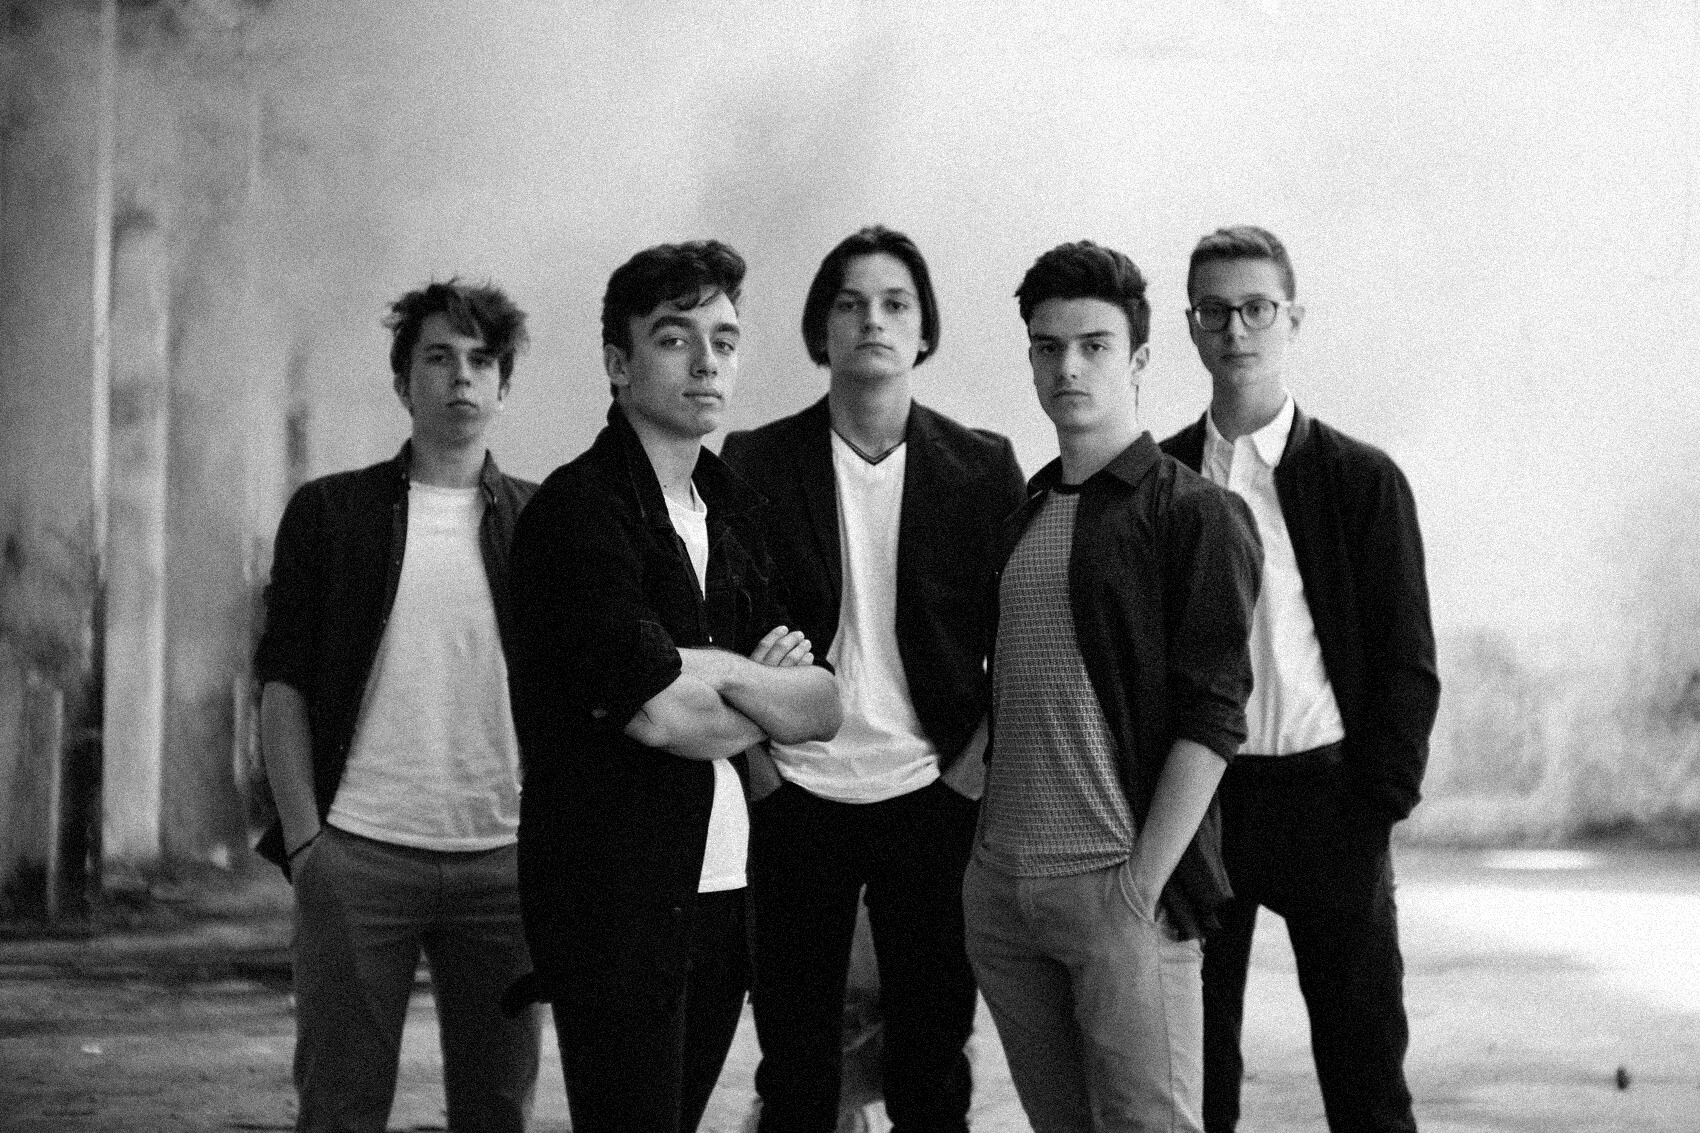
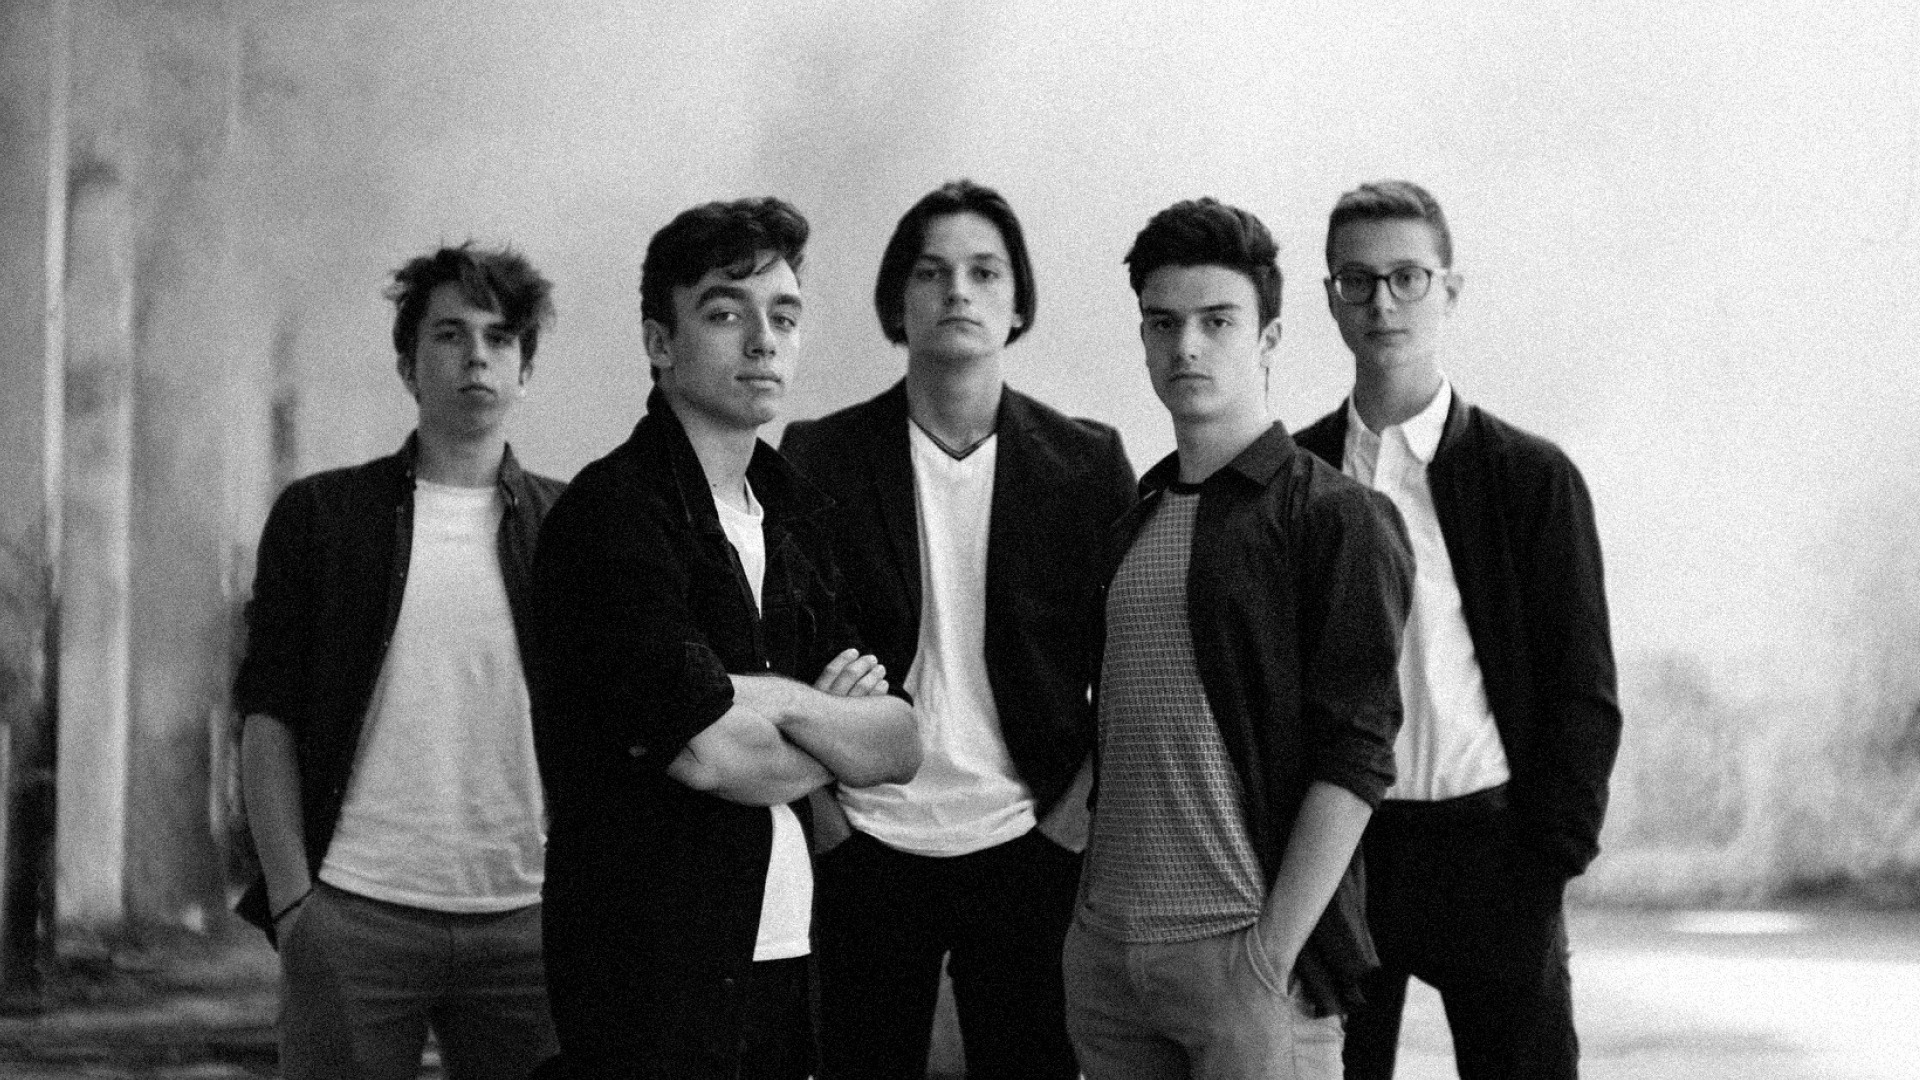
mobile vh + hamburger/form redesign + left align p

diff --git a/styles.css b/styles.css
@@ -25,7 +25,7 @@ body {
 }
 
 #home-page {
-    background-image: url(Assets/cover.png);
+    background-image: url(Assets/cover.jpg);
     background-position: center center;
 }
 
@@ -39,6 +39,7 @@ body {
     margin: auto;
     width: 85%;
     height: 15vh;
+    height: calc(var(--vh, 1vh) * 15);
     justify-content: space-between;
     align-items: center;
 }
@@ -54,7 +55,7 @@ body {
 .nav-element-text {
     color: white;
     font-weight: 500;
-    font-size: 1.5rem;
+    font-size: 1.4rem;
     letter-spacing: 0.06em;
 }
 
@@ -75,18 +76,20 @@ body {
 #banner {
     animation: fadein 1s;
     font-family: 'Playfair Display', serif;
-    font-size: calc(1.3em + 3.2vw);
+    font-size: calc(1.2em + 3.2vw);
     letter-spacing: 0.1em;
     display: flex;
     align-items: center;
     justify-content: center;
     height: 70vh;
+    height: calc(var(--vh, 1vh) * 70);
 }
 
 #socials {
     padding: 0;
     margin: auto;
     height: 15vh;
+    height: calc(var(--vh, 1vh) * 15);
     display: flex;
     width: calc(17rem + 5vw);
     justify-content: space-between;
@@ -109,6 +112,7 @@ body {
     margin: auto;
     width: 85%;
     min-height: 70vh;
+    min-height: calc(var(--vh, 1vh) * 70);
     display: flex;
     justify-content: space-evenly;
     flex-wrap: wrap;
@@ -210,10 +214,10 @@ h2 {
         align-items: center;
     }
     .opis {
-        text-align: center;
+        text-align: left;
     }
     #left-container {
-        align-items: center;
+        align-items: flex-start;
         padding-bottom: 40px;
     }
     #left-container>* {
@@ -319,8 +323,8 @@ button {
     border: 3px solid white;
     background-color: rgba(0, 0, 0, 0);
     font-weight: 500;
-    font-size: 22px;
-    letter-spacing: 0.08em;
+    font-size: calc(1rem + .2vw);
+    letter-spacing: 0.13em;
     padding: 14px 30px;
     color: white;
     font-family: 'Barlow', sans-serif;
@@ -425,6 +429,7 @@ button:hover {
 
 #left-contact>* {
     padding: 1.5rem 0;
+    width: 90%;
 }
 
 input,
@@ -433,11 +438,10 @@ textarea {
     color: white;
     letter-spacing: 0.1em;
     padding-left: 25px;
-    font-size: 1.4em;
-    background: rgba(196, 196, 196, 0.05);
+    font-size: 1.2em;
+    background: rgba(255, 255, 255, 0);
     border: 1px solid #FFFFFF;
-    border-radius: 10px;
-    width: 80%;
+    width: 85%;
 }
 
 #email-input {
@@ -496,9 +500,6 @@ textarea {
 }
 
 @media (max-width: 1500px) {
-    .contact {
-        width: 100%;
-    }
     #kontakt {
         flex-direction: column;
         align-items: stretch;
@@ -508,10 +509,6 @@ textarea {
         margin-bottom: 2rem;
         justify-content: space-evenly;
         align-items: center;
-    }
-    .contact {
-        text-align: center;
-        align-self: center;
     }
     #right-contact {
         align-items: center;
@@ -529,9 +526,6 @@ textarea {
     input,
     textarea {
         margin-bottom: 2rem;
-    }
-    #contacts-container {
-        align-items: center;
     }
     #glasba {
         flex-direction: column;
@@ -557,6 +551,7 @@ textarea {
     }
     #phone-nav {
         height: 15vh;
+        height: calc(var(--vh, 1vh) * 15);
         display: flex;
         justify-content: center;
     }
@@ -565,12 +560,18 @@ textarea {
         cursor: pointer;
     }
     #svg-wrapper {
-        background-color: rgb(36, 36, 36);
         width: 100%;
-        height: 60%;
+        height: 100%;
         display: flex;
-        justify-content: center;
+        justify-content: flex-start;
         align-items: center;
+    }
+    #svg-wrapper svg {
+        padding: 7px 10px;
+        margin-left: 30px;
+    }
+    #svg-wrapper .homeIcon {
+        background-color: rgb(36, 36, 36);
     }
     #nav {
         height: auto;

diff --git a/opis.html b/opis.html
@@ -34,6 +34,7 @@
 </head>
 
 <body>
+    <script src="script.js" type="text/javascript"></script>
     <header id="header">
         <nav id="phone-nav">
             <a id="svg-wrapper" onclick=hamburgerMenu()>
@@ -85,35 +86,35 @@
             <div id="right-container">
                 <ul id="members">
                     <li class="member">
-                        <img class="avatar" src="Assets/Avatars/Nejc.png">
+                        <img class="avatar" src="Assets/Avatars/Nejc.jpeg">
                         <div class="member-text">
                             <h3>Nejc Rac</h3>
                             <p class="instruments">Vokal / kitara</p>
                         </div>
                     </li>
                     <li class="member">
-                        <img class="avatar" src="Assets/Avatars/Vane.png">
+                        <img class="avatar" src="Assets/Avatars/Vane.jpeg">
                         <div class="member-text">
                             <h3>Vane Skubic</h3>
                             <p class="instruments">Kitara / spremljevalni vokal</p>
                         </div>
                     </li>
                     <li class="member">
-                        <img class="avatar" src="Assets/Avatars/Jernej.png">
+                        <img class="avatar" src="Assets/Avatars/Jernej.jpeg">
                         <div class="member-text">
                             <h3>Jernej Fortuna</h3>
                             <p class="instruments">Klaviature / spremljevalni vokal</p>
                         </div>
                     </li>
                     <li class="member">
-                        <img class="avatar" src="Assets/Avatars/Luka.png">
+                        <img class="avatar" src="Assets/Avatars/Luka.jpeg">
                         <div class="member-text">
                             <h3>Luka Petrovčič</h3>
                             <p class="instruments">Bobni</p>
                         </div>
                     </li>
                     <li class="member last">
-                        <img class="avatar" src="Assets/Avatars/Martin.png">
+                        <img class="avatar" src="Assets/Avatars/Martin.jpeg">
                         <div class="member-text">
                             <h3>Martin Gantar</h3>
                             <p class="instruments">Bas kitara</p>

diff --git a/index.html b/index.html
@@ -33,16 +33,17 @@
 </head>
 
 <body id="home-page">
+    <script src="script.js" type="text/javascript"></script>
     <div id="bg-overlay">
         <header id="header">
             <nav id="phone-nav">
                 <a id="svg-wrapper" onclick=hamburgerMenu()>
-                    <svg id="hamburger" viewBox="0 0 100 80" width="40" height="40">
+                    <svg class="homeIcon" id="hamburger" viewBox="0 0 100 80" width="30" height="30">
                         <rect width="100" height="10"></rect>
                         <rect y="30" width="100" height="10"></rect>
                         <rect y="60" width="100" height="10"></rect>
                     </svg>
-                    <svg id="cross" width="40" height="40" viewBox="0 0 100 80" overflow="visible" stroke="white" stroke-width="9">
+                    <svg class="homeIcon" id="cross" width="30" height="30" viewBox="0 0 100 80" overflow="visible" stroke="white" stroke-width="9">
                         <line x1="10" y1="10" x2="90" y2="80" />
                         <line x1="90" y1="10" x2="10" y2="80" />
                      </svg>

diff --git a/script.js b/script.js
@@ -1,3 +1,6 @@
+let vh = window.innerHeight * 0.01;
+document.documentElement.style.setProperty('--vh', `${vh}px`);
+
 function hamburgerMenu() {
     var nav = document.getElementById("nav");
     var cross = document.getElementById("cross");
@@ -19,7 +22,4 @@ function hamburgerMenu() {
         nav.style.display = "flex";
         header.style.backgroundColor = '#242424';
     }
-
-
-
 }

diff --git a/glasba.html b/glasba.html
@@ -34,6 +34,7 @@
 </head>
 
 <body>
+    <script src="script.js" type="text/javascript"></script>
     <header id="header">
         <nav id="phone-nav">
             <a id="svg-wrapper" onclick=hamburgerMenu()>

diff --git a/kontakt.html b/kontakt.html
@@ -34,6 +34,7 @@
 </head>
 
 <body>
+    <script src="script.js" type="text/javascript"></script>
     <header id="header">
         <nav id="phone-nav">
             <a id="svg-wrapper" onclick=hamburgerMenu()>

diff --git a/špili.html b/špili.html
@@ -34,6 +34,7 @@
 </head>
 
 <body>
+    <script src="script.js" type="text/javascript"></script>
     <header id="header">
         <nav id="phone-nav">
             <a id="svg-wrapper" onclick=hamburgerMenu()>
